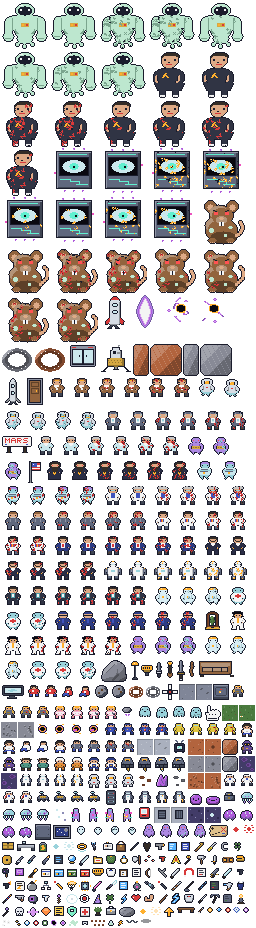
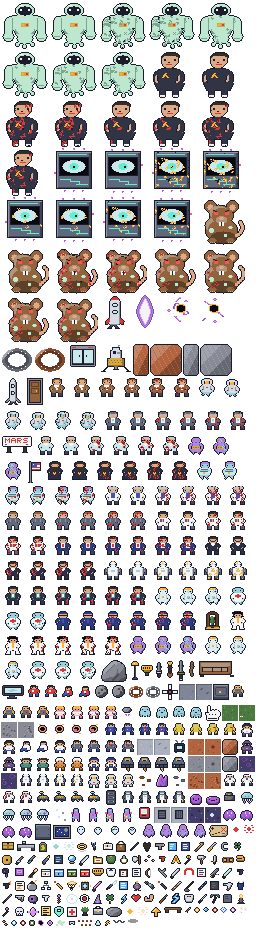
feat(map): drop the rare-loot pin and align the map title (#143)

Changed region(s): [[0.0625, 0.9688, 0.9375, 1.0]]

diff --git a/tests/engine/map_test.ts b/tests/engine/map_test.ts
@@ -2,7 +2,7 @@
 // The level map: fog-of-war exploration (revealAround from the hero's steps,
 // spawn pre-revealed, the rest fogged), the `map` pause phase (frozen sim,
 // openMap/closeMap toggles, level-up priority), and the map markers pinned by
-// story finds, unique/legendary loot, and elite/boss victories.
+// story finds and elite/boss victories.
 
 import { describe, expect, it } from "vitest";
 
@@ -113,7 +113,7 @@ describe("map markers", () => {
     });
   });
 
-  it("pins a story item and a unique find where they were picked up", () => {
+  it("pins a story item where it was picked up, but never a loot find", () => {
     const state = startGame();
     clearStage(state);
     const at = { x: state.player.pos.x, y: state.player.pos.y };
@@ -131,12 +131,10 @@ describe("map markers", () => {
       },
     );
     run(state, idle, 1);
+    // The story piece pins the map; the unique find is picked up but no longer
+    // leaves a loot marker.
     expect(state.mapMarkers.some((m) => m.kind === "story")).toBe(true);
-    expect(
-      state.mapMarkers.some(
-        (m) => m.kind === "loot" && m.defId === "test_hammer",
-      ),
-    ).toBe(true);
+    expect(state.mapMarkers.every((m) => m.defId !== "test_hammer")).toBe(true);
   });
 
   it("regular-tier pickups and minion kills leave no marker", () => {

diff --git a/src/game/types.ts b/src/game/types.ts
@@ -497,13 +497,12 @@ export type DialogueState = {
 };
 
 /**
- * What a level-map pin commemorates: a `story` plot piece picked up, a
- * `loot` find of unique/legendary gear, an `elite` slain, a `boss`
- * beaten (a fleeing unique counts — the fight was won where it fled), or a
- * `merchant` met (his stall stays put once discovered, so the pin leads
- * straight back to the shop).
+ * What a level-map pin commemorates: a `story` plot piece picked up, an
+ * `elite` slain, a `boss` beaten (a fleeing unique counts — the fight was won
+ * where it fled), or a `merchant` met (his stall stays put once discovered, so
+ * the pin leads straight back to the shop).
  */
-export type MapMarkerKind = "story" | "loot" | "elite" | "boss" | "merchant";
+export type MapMarkerKind = "story" | "elite" | "boss" | "merchant";
 
 /**
  * A pin on the level map (see map.ts): something memorable happened at

diff --git a/src/game/step.ts b/src/game/step.ts
@@ -82,7 +82,7 @@ import {
   wouldUpgradeSlot,
 } from "./items.ts";
 import { grantXp, hitEnemy, unspawnedMinions } from "./loot.ts";
-import { addMapMarker, revealAround } from "./map.ts";
+import { revealAround } from "./map.ts";
 import { repelFromMerchant, stepMerchant } from "./merchant.ts";
 import {
   blockedByObstacle,
@@ -1362,11 +1362,6 @@ function stepItems(state: GameState): void {
     // Equipment better than what's worn is equipped on the spot; the old
     // piece heads for the bag, or the ground when the bag is full. Lesser
     // finds go into the bag, staying grounded when it's full.
-    // Either way, a one-of-a-kind find (unique/legendary) pins the level map
-    // — but only once actually picked up, so the marker below waits for the
-    // branch to succeed.
-    const rareFind =
-      item.equipment.tier === "unique" || item.equipment.tier === "legendary";
     if (isBetterEquipment(state, item.equipment)) {
       const slot = item.equipment.slot;
       const previous =
@@ -1385,7 +1380,6 @@ function stepItems(state: GameState): void {
       // grow it to match (both mirror `equipFromInventory`).
       if (slot === "suit") refreshArmor(state);
       syncInventoryCapacity(state);
-      if (rareFind) addMapMarker(state, "loot", item.pos, item.equipment.defId);
       if (previous && !addToInventory(state, previous)) {
         displaced.push({
           id: state.nextId++,
@@ -1428,7 +1422,6 @@ function stepItems(state: GameState): void {
       }
       return true;
     }
-    if (rareFind) addMapMarker(state, "loot", item.pos, item.equipment.defId);
     state.stats.itemsCollected++;
     state.events.push({
       type: "itemCollected",

diff --git a/website/src/styles.css b/website/src/styles.css
@@ -2556,6 +2556,13 @@ body {
   align-self: flex-start;
 }
 
+/* Center the level-name text on the chart icon — the blanket
+   `.game-overlay canvas` rule otherwise parks the shorter title canvas at the
+   top of the row, leaving it visibly high beside the taller icon. */
+.map-header canvas {
+  align-self: center;
+}
+
 /* The 20×14 treasure-map sprite at a crisp 2x, matching the HUD button. */
 .map-title-icon {
   width: 2.5rem;

diff --git a/src/game/map.ts b/src/game/map.ts
@@ -3,8 +3,8 @@
 // state (`state.explored`, one cell per MAP.cellSize world px): walking
 // uncovers everything within MAP.revealRadius of the hero, and what has been
 // uncovered stays uncovered for the rest of the run — Warcraft-style, minus
-// the re-fogging. Memorable events pin `state.mapMarkers` (story finds, rare
-// loot, elite/boss victories) so the map tells the run's story back. The
+// the re-fogging. Memorable events pin `state.mapMarkers` (story finds,
+// elite/boss victories, the merchant) so the map tells the run's story back. The
 // `map` phase freezes the simulation exactly like the bag or the pause
 // screen; `openMap`/`closeMap` are the app's toggles, safe outside `step()`.
 

diff --git a/website/src/game/MapOverlay.tsx b/website/src/game/MapOverlay.tsx
@@ -39,7 +39,6 @@ const CELL_PX = 4;
  * sprite family (website/scripts/sprite-data/markers.mjs). */
 const MARKER_SPRITE: Record<MapMarkerKind, string> = {
   story: "map_story",
-  loot: "map_loot",
   elite: "map_elite",
   boss: "map_boss",
   // The wandering vendor's gold coin — the same sprite that bobs over his
@@ -222,7 +221,6 @@ export function MapOverlay({
   const legend: { sprite: string; label: string }[] = [
     { sprite: PLAYER_SPRITE, label: "YOU" },
     { sprite: MARKER_SPRITE.story, label: "STORY" },
-    { sprite: MARKER_SPRITE.loot, label: "RARE LOOT" },
     { sprite: MARKER_SPRITE.elite, label: "ELITE" },
     { sprite: MARKER_SPRITE.boss, label: "BOSS" },
     { sprite: MARKER_SPRITE.merchant, label: "MERCHANT" },

diff --git a/.changes/unreleased/1783380000-map-drop-loot-marker.md b/.changes/unreleased/1783380000-map-drop-loot-marker.md
@@ -1,0 +1,6 @@
+---
+type: Changed
+title: Drop the rare-loot map pin
+---
+
+The level map no longer pins rare-loot finds — the RARE LOOT marker and its legend entry are gone (story, elite, boss, and merchant pins remain), and the modal's level-name title is now vertically centered on the treasure-map chart icon.

diff --git a/docs/architecture.md b/docs/architecture.md
@@ -294,7 +294,7 @@ deploy-shaped:
   tier-colored borders, item card, character sheet), `MapOverlay.tsx` (the
   fog-of-war level map shown in the `map` phase — one chunky pixel of
   terrain per explored fog cell, dark where the hero hasn't been, with a
-  legend of event pins: story finds, rare loot, elite/boss kills, and the
+  legend of event pins: story finds, elite/boss kills, the merchant, and the
   hero's own position), `render.ts` (camera +
   sprite drawing onto a world-unit canvas upscaled with `image-rendering:
 pixelated`; enemies swap to generated wounded sprite variants as hp falls